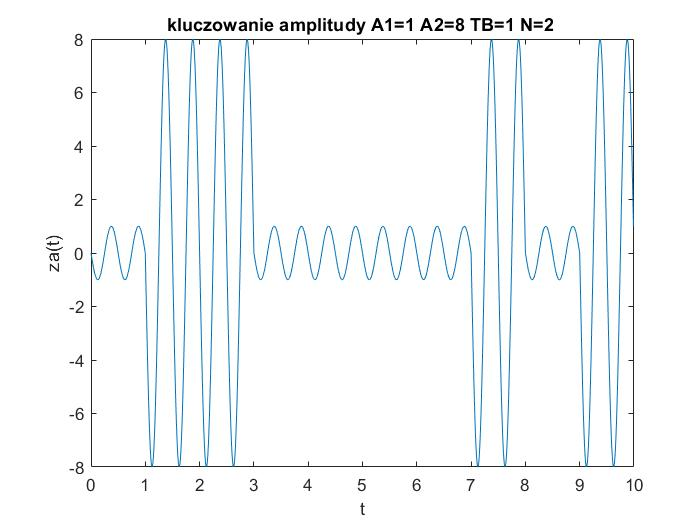
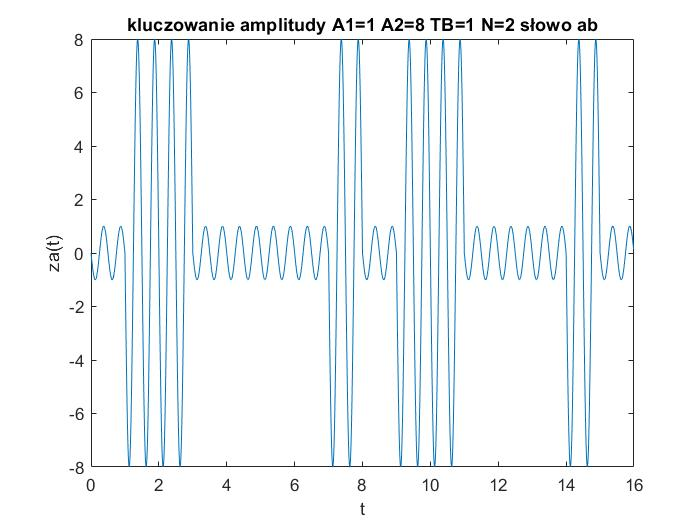
correction

diff --git a/lab06/lab06.cpp b/lab06/lab06.cpp
@@ -66,7 +66,6 @@ void information_signal(vector<float> &OY,string s,int ograniczenie)
 
 void amplitude_keying(vector<float> OX, vector<float> IF, vector<float> &OY)
 {
-
 	
 	float y;
 	int i = 0;
@@ -247,10 +246,8 @@ void amplitude_spectrum_prime(vector<float> &AS, vector<float> &AS_P, vector<flo
 	for (float x : AS)
 	{
 
-
 		y = 10 * log10(AS[i]);
 		AS_P.push_back(y);
-
 
 		//AS_P.push_back(y);
 		i++;
@@ -316,6 +313,18 @@ void data_file2(vector<float> OX, string name)
 
 int main()
 {
+	/*
+	zad3
+
+		kluczowanie amplitudy : Fmin = 1,75 Fmax = 2,25 W = 0.5
+		
+		kluczowanie czestotliwosci : Fmin = 2,875 Fmax = 3,25 W = 0,375
+	
+		kluczowanie fazy : Fmin = 1.688 Fmax = 2.375 W = 0,687
+	
+	*/
+
+	//----zad3----
 	vector<float> x1;
 	vector<float> y1;
 	vector<float> y2;
@@ -331,8 +340,8 @@ int main()
 	
 	
 
-	create_OX(0, 1000, 1 / fs, x1);
-	information_signal(IF1, s,10);
+	create_OX(0, s.size()*fs, 1 / fs, x1);
+	information_signal(IF1, s, s.size());
 
 	cout << "size OX:" << x1.size()<<"\n";
 	cout << "size IF1:" << IF1.size()<<"\n";
@@ -349,7 +358,7 @@ int main()
 	phase_keying(x1, IF1, y3);
 	data_file2(y3, "y3.txt");
 
-
+	//----zad4----
 	vector<float> x1_p;
 	vector<float> y1_p;
 	vector<float> y2_p;
@@ -357,8 +366,8 @@ int main()
 
 	vector<float> IF_p1;
 
-	create_OX(0, s.size()*fs, 1 / fs, x1_p);
-	information_signal(IF_p1, s, s.size());
+	create_OX(0, 1000, 1 / fs, x1_p);
+	information_signal(IF_p1, s, 10);
 
 	cout << "rozmiar size" << s.size()*fs << "\n";
 
@@ -383,7 +392,6 @@ int main()
 	vector<float> AS1;
 	vector<float> FS1;
 	vector<float> AS_P;
-
 	
 	DFT(y1_p, DFT1);
 	amplitude_spectrum(DFT1, AS1, y1_p);
@@ -391,8 +399,6 @@ int main()
 	frequency_scale(DFT1, FS1, fs);
 	data_file2(FS1, "xfs1.txt");
 	data_file2(AS_P, "ASy.txt");
-
-
 
 
 	DFT_Coeff DFT2;
